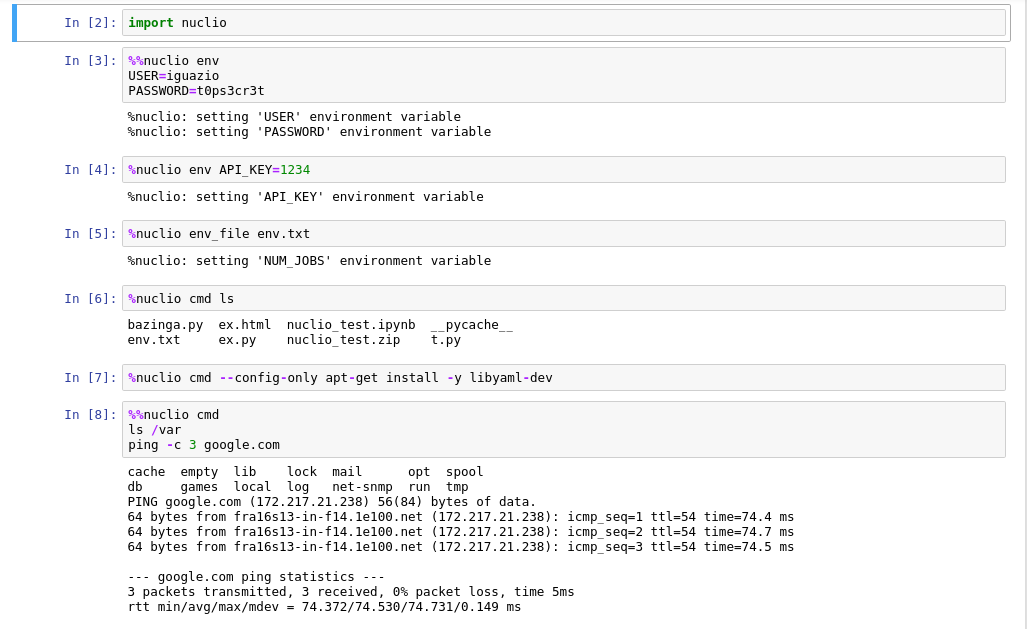
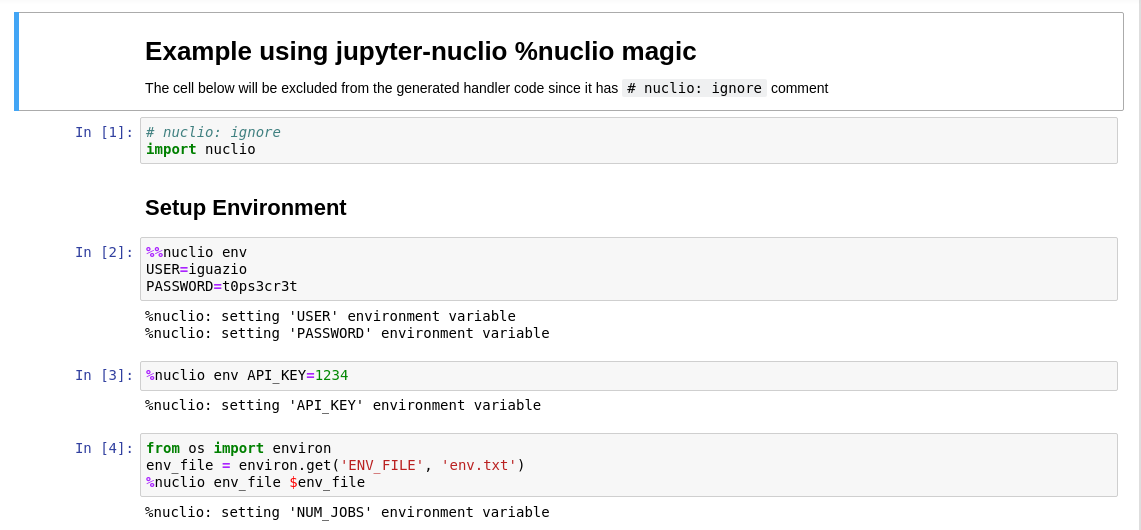
nicer handler example

Changed region(s): [[0.0623, 0.4528, 0.9659, 0.9962], [0.0, 0.0, 0.9971, 0.3321], [0.0623, 0.3623, 0.4674, 0.4226]]

diff --git a/docs/index.rst b/docs/index.rst
@@ -50,41 +50,45 @@ Example
 
 .. image:: jupyter-nuclio-1.png
 .. image:: jupyter-nuclio-2.png
+.. image:: jupyter-nuclio-3.png
 
 
 Will generate a zip file with ``handler.py``
 
 .. code-block:: python
+
    # Generated by nuclio.export.NuclioExporter on 2018-12-10 08:26:39.086907
 
    import nuclio
 
    def handler(context, event):
-       msg = 'Hello ' + evt.body
+       msg = 'Hello ' + event.body
        return msg # nuclio: return
 
 
 And ``function.yaml``
 
 .. code-block:: yaml
+
    # Generated by nuclio.export.NuclioExporter on 2018-12-10 08:26:39.095522
    apiVersion: nuclio.io/v1
-   build:
-     commands:
-     - ls
-     - apt-get install -y libyaml-dev
-     - ls /var
-     - ping -c 3 google.com
    kind: Function
    metadata: {}
    spec:
-     env:
-       API_KEY: '1234'
-       NUM_JOBS: '2'
-       PASSWORD: t0ps3cr3t
-       USER: iguazio
-     handler: handler:handler
      runtime: python:3.6
+     handler: handler:handler
+     env:
+       - name: API_KEY
+         value: '1234'
+       - name: NUM_JOBS
+         value: '2'
+       - name: PASSWORD
+         value: t0ps3cr3t
+       - name: USER
+         value: guazio
+   build:
+     commands:
+     - apt-get install -y libyaml-dev
 
 
 Other Notebooks
